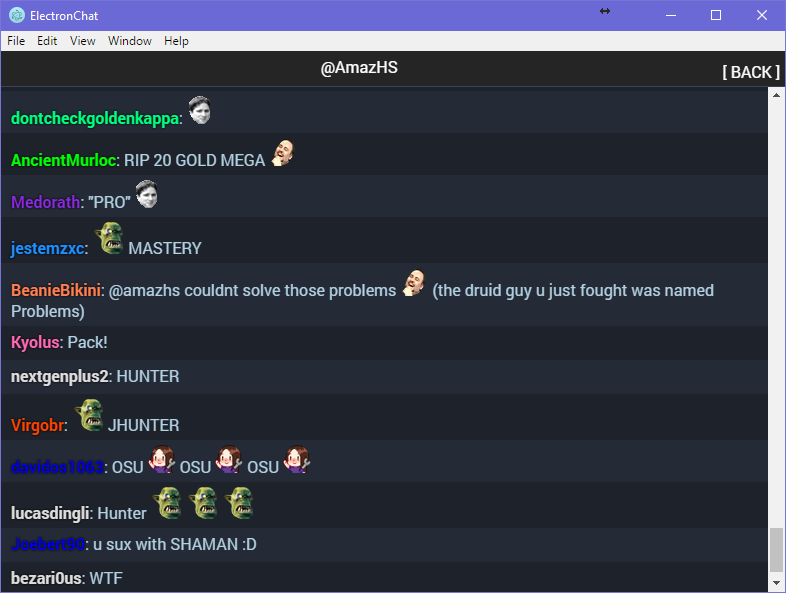
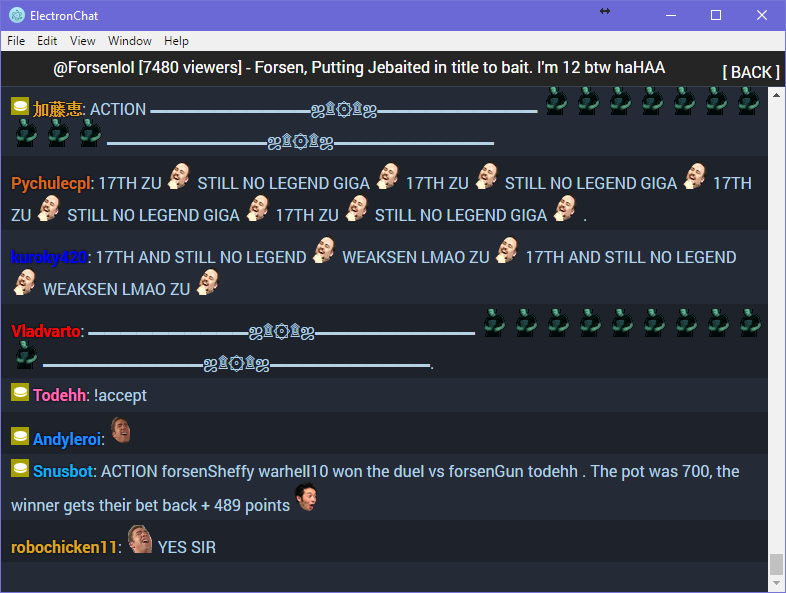
Added subscriber and Prime badges
Also did some refactoring of the classes to store all related classes
inside the Twitch Service.

Changed region(s): [[0.0, 0.0911, 0.9771, 1.0], [0.0611, 0.0911, 0.855, 0.1214], [0.9771, 0.8803, 1.0, 0.9713]]

diff --git a/app/chat.component.ts b/app/chat.component.ts
@@ -5,13 +5,15 @@ import { Http, Response, Headers, RequestOptions } from '@angular/http';
 import * as io from 'socket.io-client';
 import * as $ from 'jquery';
 
-import { TwitchService } from './twitch.service';
+import { TwitchService, IChannelInfo } from './twitch.service';
 import { ChatMessageComponent } from './chat-message.component';
 
 export interface ChatMessage {
     username: string;
     color: string;
     message: string;
+    subscriber: boolean;
+    prime: boolean;
 }
 
 @Component({
@@ -25,8 +27,11 @@ export class ChatComponent {
     private chatConnection;
 
     public messages: Array<ChatMessage> = [];
+    public channelInfo: IChannelInfo;
 
     constructor(private _Twitch: TwitchService, private _zone: NgZone) {
+        this.channelInfo =  { profilePicture: "logo", streamTitle: "status", viewers: 0};
+        
         this.chatConnection = this._Twitch.getChat$().subscribe(message => {
             this.AddMessage(message);
 
@@ -44,7 +49,9 @@ export class ChatComponent {
                 this.messages.shift();
             }
 
-            this.messages.push({ username: data.username, color: data.color || '#DDDDDD', message: this._Twitch.ParseChatMessage(data.message) });
+            this.messages.push({ username: data.username, color: data.color || '#DDDDDD', message: this._Twitch.ParseChatMessage(data.message), subscriber: data.subscriberLength > 0, prime: data.isPrime });
+
+            console.log(data.subscriberLength > 0);
 
             $(".scrollbox").each((index, element) => {
                 element.scrollTop = element.scrollHeight + 60;
@@ -59,6 +66,12 @@ export class ChatComponent {
 
     ngOnDestroy() {
         this.chatConnection.unsubscribe();
+    }
+
+    ngOnInit() {
+        this._Twitch.GetStreamInfo(this.channelName).subscribe(info => {
+            this.channelInfo = info;
+        });  
     }
 
 }

diff --git a/app/twitch.service.ts b/app/twitch.service.ts
@@ -3,8 +3,28 @@ import { Observable } from 'rxjs/Observable';
 import 'rxjs/Rx';
 import { Http, Response, Headers } from '@angular/http';
 
-import { IChannel, IEmote } from './browser.component';
 import { IRCService } from './irc.service';
+
+export interface IChannel {
+    viewers: number;
+    displayName: string;
+    //constructor(displayName: string, viewers: number);
+}
+
+export interface IEmote {
+    //emoticon_set: number;
+    // width: number;
+    // height: number;
+    id: string;
+    url: string;
+    matchString: string;
+}
+
+export interface IChannelInfo {
+    profilePicture: string;
+    streamTitle: string;
+    viewers: number;
+}
 
 @Injectable()
 export class TwitchService {
@@ -67,6 +87,21 @@ export class TwitchService {
 
                 return result;
 
+            });
+
+        return req;
+    }
+
+    public GetStreamInfo(channel: string): Observable<IChannelInfo> {
+        let url: string = this.baseURL + 'streams' + '/' + channel;
+
+        console.log("Getting channel information for "+channel);
+
+        let req = this._http.get(url, { headers: this.headers })
+            .map((res: Response) => res.json())
+            .map((channel: Array<any>) => {
+                    return { profilePicture: channel.stream.channel.logo, streamTitle: channel.stream.channel.status, viewers: channel.stream.viewers };
+    
             });
 
         return req;

diff --git a/main.js b/main.js
@@ -39,9 +39,14 @@ socket.on('connection', function(socket) {
 
       
       // CHAT COMMENT, first capture group is username, second capture group is message.
-      irc.on(/^@badges.*;color=(.*);display-name=(.*);emotes=.*PRIVMSG #\w* :(.*)$/gmiu, function(info) {
-          socket.emit('chat', {username: info[2], message: info[3], badges: [], color: info[1]});
-          console.log(info[1]+": "+info[2]);
+      irc.on(/^@badges=(.*);color=(.*);display-name=(.*);emotes=.*;subscriber=(\d*);.*PRIVMSG #\w* :(.*)$/gmiu, function(info) {
+      
+          var badges = info[1];
+
+          var isPrime = badges.match(/premium\/1/gmi) !== null || badges.match(/turbo\/1/gmi) !== null ;
+
+          socket.emit('chat', {username: info[3], message: info[5], badges: [], color: info[2], subscriberLength: info[4], isPrime: isPrime });
+          console.log(info[1]+": "+info[3]);
       });
 
       // irc.on(/^\:(.*)!.+\ PRIVMSG .* \:\!ping$/gmi, function(info) {

diff --git a/app/chat.component.html b/app/chat.component.html
@@ -1,13 +1,15 @@
 <!--<button (click)="SendKappa()">Send Kappa</button>-->
 <div class="chat-box">
     <div class="chat-header">
-        @{{channelName}}
+        @{{channelName}} [{{channelInfo.viewers}} viewers] - {{channelInfo.streamTitle}}
 
         <div class="pull-right"><a [routerLink]="['/']">[ BACK ]</a></div>
 
     </div>
     <div class="scrollbox chat-messages">
         <ul class="chat-list">
-            <li *ngFor="let data of messages"><span class="username" [style.color]="data.color">{{data.username}}</span>: <span [innerHTML]="data.message"></span></li>
+            <li *ngFor="let data of messages">
+                <img src="./img/prime.png" *ngIf="data.prime"> <img src="./img/subscriber.png" *ngIf="data.subscriber"> <span class="username" [style.color]="data.color">{{data.username}}</span>: <span [innerHTML]="data.message"></span>
+            </li>
         </ul>
     </div>
